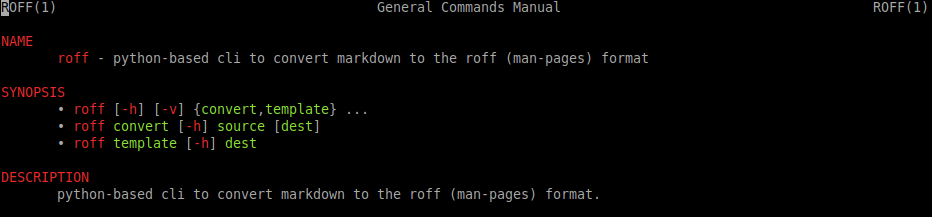
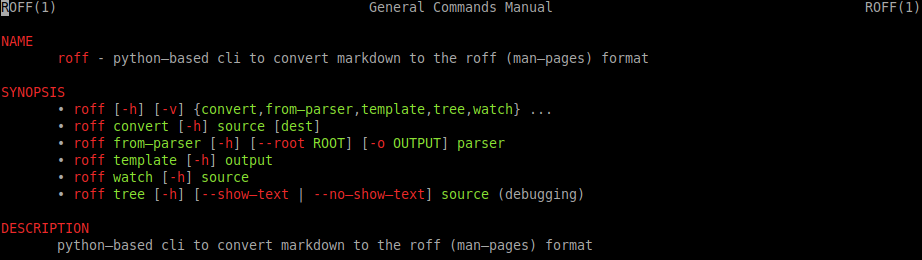
updated documentation

diff --git a/src/roff/__init__.py b/src/roff/__init__.py
@@ -1,33 +1,13 @@
 # -*- coding=utf-8 -*-
 r"""
-MIT License
 
-Copyright (c) 2024 utility-toolbox
-
-Permission is hereby granted, free of charge, to any person obtaining a copy
-of this software and associated documentation files (the "Software"), to deal
-in the Software without restriction, including without limitation the rights
-to use, copy, modify, merge, publish, distribute, sublicense, and/or sell
-copies of the Software, and to permit persons to whom the Software is
-furnished to do so, subject to the following conditions:
-
-The above copyright notice and this permission notice shall be included in all
-copies or substantial portions of the Software.
-
-THE SOFTWARE IS PROVIDED "AS IS", WITHOUT WARRANTY OF ANY KIND, EXPRESS OR
-IMPLIED, INCLUDING BUT NOT LIMITED TO THE WARRANTIES OF MERCHANTABILITY,
-FITNESS FOR A PARTICULAR PURPOSE AND NONINFRINGEMENT. IN NO EVENT SHALL THE
-AUTHORS OR COPYRIGHT HOLDERS BE LIABLE FOR ANY CLAIM, DAMAGES OR OTHER
-LIABILITY, WHETHER IN AN ACTION OF CONTRACT, TORT OR OTHERWISE, ARISING FROM,
-OUT OF OR IN CONNECTION WITH THE SOFTWARE OR THE USE OR OTHER DEALINGS IN THE
-SOFTWARE.
 """
 
-__author__ = "PlayerG9"
+__author__ = "Barakudum"
 __copyright__ = "Copyright 2024, utility-toolbox"
-__credits__ = ["PlayerG9"]
-__license__ = "MIT"
-__maintainer__ = "PlayerG9"
+__credits__ = ["Barakudum"]
+__license__ = "GPLv3"
+__maintainer__ = "Barakudum"
 __email__ = None
 __status__ = "Development"  # Prototype, Development, Production
 __description__ = "python-based cli to convert markdown to the roff (man-pages) format"

diff --git a/README.md b/README.md
@@ -30,7 +30,9 @@ pip install roff[watch]  # support for rendering and auto-reloading a manpage wh
 
 ## Usage/Execution
 
-For the common usage you can create a template markdown file with the `roff template` subcommand and then convert it to the roff-file-format with `roff convert`
+> For more details inspect the manpage (`man roff.1`) to see all commands with their options.
+
+For the common usage you can create a template markdown file with the `roff template` subcommand and then convert it to the roff-file-format with `roff convert`.
 
 ```shell
 roff --help
@@ -50,7 +52,10 @@ $ vim command.1.md
 ```
 
 Additionally, if your project uses python `argparse.ArgumentParser` then you can start quicker by using the `roff from-parser` command instead of `roff template`.
-This works almost like the template command. But fills most of the fields.
+This works almost like the template command, but fills most of the fields.
+
+> [!WARNING]
+> `from-parser` will import the parser from your specified file/module. Which means that the code will be run! Use with care!
 
 ```shell
 $ roff from-parser --root src/ --output prog.1.md myprog.__main__:parser
@@ -58,6 +63,8 @@ $ roff from-parser --root src/ --output prog.1.md myprog.__main__:parser
 
 
 ## File Format
+
+> For more details inspect the manpage (`man roff.5`) to see all file specifications.
 
 `roff` uses markdown as the file format. It supports all commonmark markdown features (h1 is reserved for the head).
 
@@ -75,10 +82,14 @@ $`command subcommand [--arg value] file...`
 
 ## Configuration
 
+Roff has multiple configuration options for a more customized experience.
+Details about these options can be inspected via the manpage (`man roff.1`).
+These options are only needed for a fine-tuned experience. For most users roff should work out of the box.
+
 ## Example
 
 The following image shows the manpage of roff itself.
 
-<small>(The manpage-content is slightly outdated but still shows what roff can do)</small>
+<small>(The manpage-content might be slightly outdated but still shows what roff can do)</small>
 
 ![example: manpage](https://github.com/utility-toolbox/roff/blob/main/README.assets/roff-manpage.png?raw=true)

diff --git a/docs/roff.1.md b/docs/roff.1.md
@@ -32,8 +32,6 @@ Support for all* Markdown features:
 - Images (rendered as braille-art | requires `roff[images]`)
 - Horizontal-Rule
 
-Note: to specify the parser for an executable module use the format '`module[.submodule].__main__[:variable]`'.
-
 ## OPTIONS
 
 $`roff [-h] [-v] [--list-areas] {convert,from-parser,template,tree,watch} ...`
@@ -77,6 +75,8 @@ Output file name
 
 * $`parser`:
 Entrypoint-Specification to the parser. (Format: '`module[.submodule][:variable]`')
+
+Note: to specify the parser for an executable module use the format '`module[.submodule].__main__[:variable]`'.
 
 ### $`roff template`
 
@@ -143,6 +143,8 @@ This defines the width of rendering elements such as images or a separator.
 Defines if only ascii characters should be used during rendering.
 (e.g. separator)
 
+> Note: This configures only by roff generated characters. Not the ones in your file!
+
 - Default: `false`
 - Type: boolean
 
@@ -157,7 +159,7 @@ When rendering code. This option defines into how many spaces a tab-character is
 <https://github.com/utility-toolbox/roff/issues>
 
 ## AUTHOR
-<https://github.com/PlayerG9>
+<https://github.com/Barakudum>
 
 ## SEE ALSO
 

diff --git a/docs/roff.5.md b/docs/roff.5.md
@@ -187,7 +187,7 @@ shows a help message and exists
 <https://github.com/utility-toolbox/roff/issues>
 
 ## AUTHOR
-<https://github.com/PlayerG9>
+<https://github.com/Barakudum>
 
 ## SEE ALSO
 
